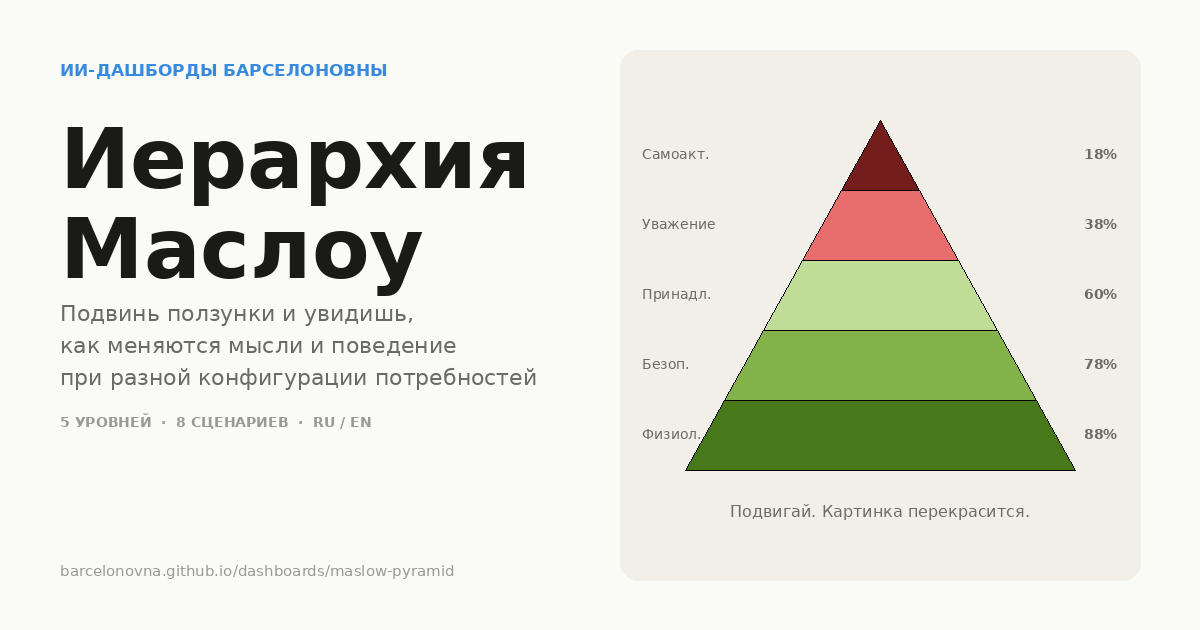
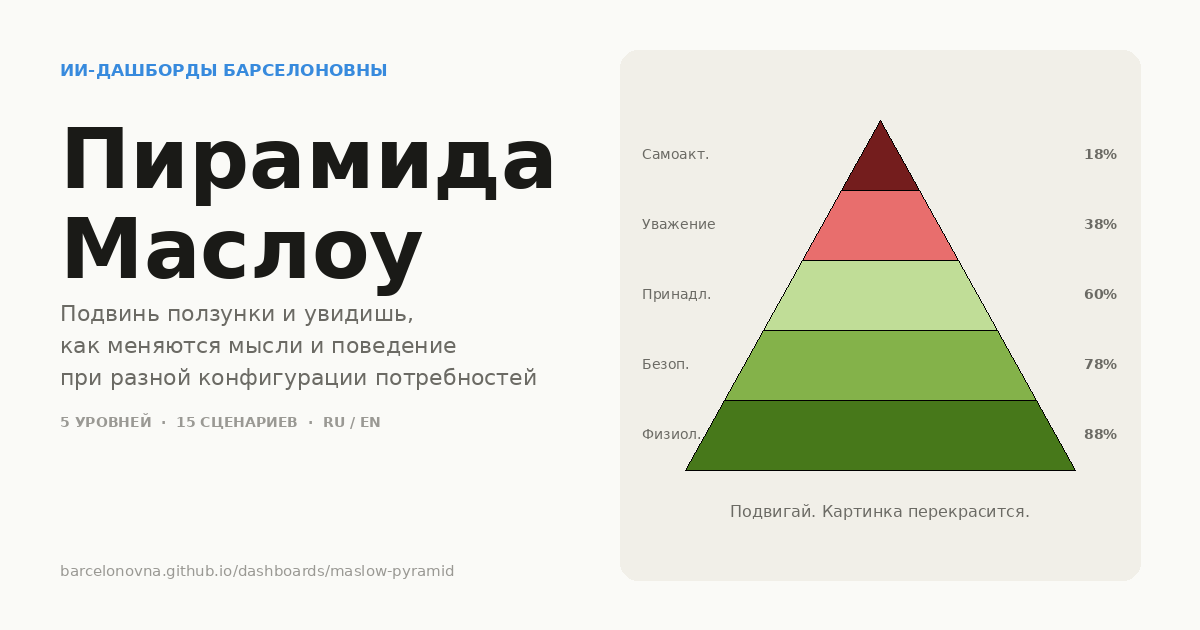
changes+metrika

Changed region(s): [[0.1233, 0.2111, 0.4625, 0.3317], [0.1542, 0.6635, 0.3392, 0.6937], [0.0617, 0.181, 0.0925, 0.3016]]

diff --git a/social-connections/index.html b/social-connections/index.html
@@ -4,13 +4,13 @@
 <meta charset="utf-8">
 <meta name="viewport" content="width=device-width, initial-scale=1">
 <title>Связи продлевают жизнь · ИИ-дашборды Барселоновны</title>
-<meta name="description" content="Качество отношений — один из сильнейших известных факторов здоровья. Данные Гарвардского исследования и мета-анализа.">
+<meta name="description" content="85 лет наблюдений и мета-анализ 3,4 миллиона человек показывают: качество связей с близкими и знакомыми — один из сильнейших факторов здоровья и долголетия. С интерактивным калькулятором собственного круга.">
 
 <!-- Open Graph -->
 <meta property="og:type" content="website">
 <meta property="og:url" content="https://barcelonovna.github.io/dashboards/social-connections/">
 <meta property="og:title" content="Связи продлевают жизнь">
-<meta property="og:description" content="85 лет наблюдений Гарварда. Сильные социальные связи снижают риск ранней смерти на 50%.">
+<meta property="og:description" content="Что 85 лет исследований и мета-анализ 3,4 миллиона человек говорят о роли отношений в здоровье и долголетии. С калькулятором собственного круга.">
 <meta property="og:image" content="https://barcelonovna.github.io/dashboards/social-connections/preview.png">
 <meta property="og:image:width" content="1200">
 <meta property="og:image:height" content="630">
@@ -19,8 +19,9 @@
 <!-- Twitter -->
 <meta name="twitter:card" content="summary_large_image">
 <meta name="twitter:title" content="Связи продлевают жизнь">
-<meta name="twitter:description" content="85 лет наблюдений Гарварда. −50% риска ранней смерти.">
+<meta name="twitter:description" content="85 лет наблюдений и 3,4 миллиона человек о связях, здоровье и долголетии. С калькулятором круга.">
 <meta name="twitter:image" content="https://barcelonovna.github.io/dashboards/social-connections/preview.png">
+
 <style>
 :root {
   --bg: #fafaf7;
@@ -78,7 +79,7 @@ html, body {
   background: var(--bg);
   color: var(--text);
   font-family: -apple-system, BlinkMacSystemFont, "Segoe UI", Roboto, Helvetica, Arial, sans-serif;
-  font-size: 16px;
+  font-size: 15px;
   line-height: 1.55;
   -webkit-font-smoothing: antialiased;
   font-variant-numeric: tabular-nums;
@@ -103,7 +104,7 @@ html, body {
   text-transform: uppercase;
   color: var(--accent);
   text-decoration: none;
-  margin-bottom: 12px;
+  margin-bottom: 8px;
   transition: opacity 0.15s ease;
 }
 .brand:hover { opacity: 0.7; }
@@ -111,7 +112,7 @@ h1 {
   font-size: 28px;
   font-weight: 500;
   letter-spacing: -0.01em;
-  margin: 0 0 8px;
+  margin: 0 0 6px;
   color: var(--text);
 }
 .subtitle {
@@ -120,22 +121,6 @@ h1 {
   line-height: 1.55;
   margin: 0;
   max-width: 640px;
-}
-.inspired {
-  font-size: 13px;
-  color: var(--text-3);
-  line-height: 1.5;
-  margin: 10px 0 0;
-  max-width: 640px;
-}
-.inspired a {
-  color: var(--accent);
-  text-decoration: none;
-  border-bottom: 1px solid var(--accent-bg);
-  transition: border-color 0.15s;
-}
-.inspired a:hover {
-  border-bottom-color: var(--accent);
 }
 .lang-switch {
   display: flex;
@@ -184,19 +169,19 @@ h1 {
   line-height: 1.2;
 }
 .stat-hint {
-  font-size: 11px;
+  font-size: 13px;
   color: var(--text-3);
   margin-top: 2px;
 }
 .section-title {
-  font-size: 16px;
+  font-size: 14px;
   font-weight: 500;
   margin: 0 0 4px;
-  color: var(--text);
+  color: var(--text-2);
 }
 .section-sub {
   font-size: 13px;
-  color: var(--text-2);
+  color: var(--text-3);
   margin: 0 0 16px;
 }
 #bars {
@@ -351,14 +336,14 @@ input[type=range]::-moz-range-thumb {
   margin-bottom: 6px;
 }
 .result-value {
-  font-size: 26px;
+  font-size: 28px;
   font-weight: 500;
   font-variant-numeric: tabular-nums;
   line-height: 1.2;
 }
 .result-value.green { color: var(--green-3); }
 .result-hint {
-  font-size: 11px;
+  font-size: 13px;
   color: var(--text-3);
   margin-top: 4px;
   line-height: 1.4;
@@ -413,20 +398,42 @@ input[type=range]::-moz-range-thumb {
 .embed-mode #bars { margin-bottom: 0; }
 .embed-mode .info-box { margin-bottom: 0; }
 
-@media (max-width: 700px) {
+@media (max-width: 800px) {
+  .calc-grid { grid-template-columns: 1fr; gap: 24px; }
+  .rings-wrap { order: -1; }
+  #rings { max-width: 240px; }
+}
+
+@media (max-width: 600px) {
   .container { padding: 20px 14px 40px; }
   h1 { font-size: 22px; }
   .header { flex-direction: column; gap: 14px; }
   .lang-switch { align-self: flex-start; }
   .stats { grid-template-columns: 1fr 1fr; }
   .stats .stat:nth-child(3) { grid-column: span 2; }
-  .bar-row { grid-template-columns: 140px 1fr 48px; gap: 8px; }
+  .stat-value { font-size: 22px; }
+  .bar-row { grid-template-columns: 130px 1fr 46px; gap: 8px; }
   .bar-label { font-size: 12px; }
-  .calc-grid { grid-template-columns: 1fr; gap: 24px; }
   .results { grid-template-columns: 1fr; }
+  .result-value { font-size: 22px; }
   .calc-wrap { padding: 18px 16px; }
 }
 </style>
+
+<!-- Yandex.Metrika counter -->
+<script type="text/javascript">
+    (function(m,e,t,r,i,k,a){
+        m[i]=m[i]||function(){(m[i].a=m[i].a||[]).push(arguments)};
+        m[i].l=1*new Date();
+        for (var j = 0; j < document.scripts.length; j++) {if (document.scripts[j].src === r) { return; }}
+        k=e.createElement(t),a=e.getElementsByTagName(t)[0],k.async=1,k.src=r,a.parentNode.insertBefore(k,a)
+    })(window, document,'script','https://mc.yandex.ru/metrika/tag.js?id=109215938', 'ym');
+
+    ym(109215938, 'init', {ssr:true, webvisor:true, clickmap:true, ecommerce:"dataLayer", referrer: document.referrer, url: location.href, accurateTrackBounce:true, trackLinks:true});
+</script>
+<noscript><div><img src="https://mc.yandex.ru/watch/109215938" style="position:absolute; left:-9999px;" alt="" /></div></noscript>
+<!-- /Yandex.Metrika counter -->
+
 </head>
 <body>
 <div class="container">
@@ -436,7 +443,6 @@ input[type=range]::-moz-range-thumb {
     <a href="../" class="brand" target="_top" data-i18n="brand">ИИ-дашборды Барселоновны</a>
     <h1 data-i18n="title">Связи продлевают жизнь</h1>
     <p class="subtitle" data-i18n="subtitle">85 лет наблюдений и мета-анализ 3,4 миллиона человек говорят одно: качество отношений с близкими и знакомыми — один из сильнейших известных факторов здоровья и продолжительности жизни. Сильнее холестерина, сопоставимо с курением.</p>
-    <p class="inspired" data-i18n="inspired">Вдохновлено телеграм-каналом <a href="https://t.me/mig41" target="_blank" rel="noopener">МИГ России</a>, продвигающим идею укрепления горизонтальных связей.</p>
   </div>
   <div class="lang-switch" role="group">
     <button class="lang-btn active" data-lang="ru">RU</button>
@@ -564,7 +570,6 @@ const I18N = {
     brand: "ИИ-дашборды Барселоновны",
     title: "Связи продлевают жизнь",
     subtitle: "85 лет наблюдений и мета-анализ 3,4 миллиона человек говорят одно: качество отношений с близкими и знакомыми — один из сильнейших известных факторов здоровья и продолжительности жизни. Сильнее холестерина, сопоставимо с курением.",
-    inspired: 'Вдохновлено телеграм-каналом <a href="https://t.me/mig41" target="_blank" rel="noopener">МИГ России</a>, продвигающим идею укрепления горизонтальных связей.',
     stat1Label: "Гарвардское исследование",
     stat1Value: "85 лет",
     stat1Hint: "с 1938 года, 1300 участников",
@@ -627,7 +632,6 @@ const I18N = {
     brand: "Barcelonovna AI Dashboards",
     title: "Connections extend life",
     subtitle: "85 years of observation and a meta-analysis of 3.4 million people point to one thing: the quality of your relationships with close people and acquaintances is one of the strongest known predictors of health and longevity. Stronger than cholesterol. Comparable to smoking.",
-    inspired: 'Inspired by the Telegram channel <a href="https://t.me/mig41" target="_blank" rel="noopener">MIG Russia</a>, advocating stronger horizontal social ties.',
     stat1Label: "Harvard Study of Adult Development",
     stat1Value: "85 years",
     stat1Hint: "since 1938, 1,300 participants",
@@ -858,13 +862,17 @@ function applyLang() {
   document.querySelectorAll("[data-i18n]").forEach(el => {
     const key = el.getAttribute("data-i18n");
     if (t[key] !== undefined) {
-      if (key === "infoBody" || key === "inspired") {
+      if (key === "infoBody") {
         el.innerHTML = t[key];
       } else {
         el.textContent = t[key];
       }
     }
   });
+
+  // Brand href keeps the language across navigation
+  const brand = document.querySelector(".brand");
+  if (brand) brand.href = "../?lang=" + lang;
 
   document.querySelectorAll(".lang-btn").forEach(btn => {
     btn.classList.toggle("active", btn.getAttribute("data-lang") === lang);

diff --git a/maslow-pyramid/index.html b/maslow-pyramid/index.html
@@ -3,12 +3,12 @@
 <head>
 <meta charset="UTF-8">
 <meta name="viewport" content="width=device-width, initial-scale=1.0">
-<title>Иерархия Маслоу · Интерактивная пирамида</title>
+<title>Пирамида Маслоу. Интерактивный дашборд</title>
 <meta name="description" content="Подвигай ползунки и посмотри, какие мысли и поведение возникают при разной конфигурации потребностей по Маслоу.">
 
 <meta property="og:type" content="website">
 <meta property="og:url" content="https://barcelonovna.github.io/dashboards/maslow-pyramid/">
-<meta property="og:title" content="Иерархия Маслоу. Интерактивная пирамида">
+<meta property="og:title" content="Пирамида Маслоу. Интерактивный дашборд">
 <meta property="og:description" content="Пять уровней потребностей, ползунки и сценарии. Как меняются мысли и поведение при разной конфигурации.">
 <meta property="og:image" content="https://barcelonovna.github.io/dashboards/maslow-pyramid/preview.png">
 <meta property="og:image:width" content="1200">
@@ -17,7 +17,7 @@
 <meta property="og:locale:alternate" content="en_US">
 
 <meta name="twitter:card" content="summary_large_image">
-<meta name="twitter:title" content="Иерархия Маслоу. Интерактивная пирамида">
+<meta name="twitter:title" content="Пирамида Маслоу. Интерактивный дашборд">
 <meta name="twitter:description" content="Пять уровней потребностей, ползунки и сценарии. Как меняются мысли и поведение.">
 <meta name="twitter:image" content="https://barcelonovna.github.io/dashboards/maslow-pyramid/preview.png">
 
@@ -145,7 +145,7 @@ h1 {
   margin-bottom: 4px;
 }
 .stat-value {
-  font-size: 22px;
+  font-size: 28px;
   font-weight: 500;
   color: var(--text);
   font-variant-numeric: tabular-nums;
@@ -435,16 +435,30 @@ input[type=range]::-moz-range-thumb {
 .embed-mode .container { padding: 24px; }
 .embed-mode .header { margin-bottom: 16px; }
 </style>
+
+<!-- Yandex.Metrika counter -->
+<script type="text/javascript">
+    (function(m,e,t,r,i,k,a){
+        m[i]=m[i]||function(){(m[i].a=m[i].a||[]).push(arguments)};
+        m[i].l=1*new Date();
+        for (var j = 0; j < document.scripts.length; j++) {if (document.scripts[j].src === r) { return; }}
+        k=e.createElement(t),a=e.getElementsByTagName(t)[0],k.async=1,k.src=r,a.parentNode.insertBefore(k,a)
+    })(window, document,'script','https://mc.yandex.ru/metrika/tag.js?id=109215938', 'ym');
+
+    ym(109215938, 'init', {ssr:true, webvisor:true, clickmap:true, ecommerce:"dataLayer", referrer: document.referrer, url: location.href, accurateTrackBounce:true, trackLinks:true});
+</script>
+<noscript><div><img src="https://mc.yandex.ru/watch/109215938" style="position:absolute; left:-9999px;" alt="" /></div></noscript>
+<!-- /Yandex.Metrika counter -->
 </head>
 <body>
 <div class="container">
   <header class="header">
     <div class="header-text">
       <a href="../" class="brand" id="brand" target="_top">ИИ-дашборды Барселоновны</a>
-      <h1 id="title">Иерархия Маслоу</h1>
+      <h1 id="title">Пирамида Маслоу</h1>
       <p class="subtitle" id="subtitle">Из чего собрано твоё «прямо сейчас». Подвигай ползунки или выбери сценарий.</p>
       <p class="inspired" id="inspired">
-        Основано на иерархии потребностей <a href="https://psychclassics.yorku.ca/Maslow/motivation.htm" target="_blank" rel="noopener">Абрахама Маслоу</a>, 1943. Это интерпретация модели, не диагностика.
+        Основано на пирамиде потребностей <a href="https://psychclassics.yorku.ca/Maslow/motivation.htm" target="_blank" rel="noopener">Абрахама Маслоу</a>, 1943. Это интерпретация модели, не диагностика.
       </p>
     </div>
     <div class="lang-switch">
@@ -514,9 +528,9 @@ const I18N = {
   ru: {
     htmlLang: "ru",
     brand: "ИИ-дашборды Барселоновны",
-    title: "Иерархия Маслоу",
+    title: "Пирамида Маслоу",
     subtitle: "Из чего собрано твоё «прямо сейчас». Подвигай ползунки или выбери сценарий.",
-    inspired: 'Основано на иерархии потребностей <a href="https://psychclassics.yorku.ca/Maslow/motivation.htm" target="_blank" rel="noopener">Абрахама Маслоу</a>, 1943. Это интерпретация модели, не диагностика.',
+    inspired: 'Основано на пирамиде потребностей <a href="https://psychclassics.yorku.ca/Maslow/motivation.htm" target="_blank" rel="noopener">Абрахама Маслоу</a>, 1943. Это интерпретация модели, не диагностика.',
     presetLabel: "Сценарии",
     statHarmonyLabel: "Гармония",
     statDomLabel: "Куда уходит фокус",
@@ -528,16 +542,16 @@ const I18N = {
     harmonyTags: ["Большой дефицит", "Заметный перекос", "В целом сносно", "Гармонично"],
     domFlowLabel: "Энергия роста",
     footer: 'Источник: A. H. Maslow, <a href="https://psychclassics.yorku.ca/Maslow/motivation.htm" target="_blank" rel="noopener">A Theory of Human Motivation</a>, Psychological Review, 1943. Тексты мыслей и поведения это авторская интерпретация для иллюстрации, конкретные проявления зависят от личной истории, контекста и культуры.',
-    titleHtml: "Иерархия Маслоу · Интерактивная пирамида",
+    titleHtml: "Пирамида Маслоу. Интерактивный дашборд",
     methodologyTitle: "Как считаются метрики",
     methodologyContent: '<p><strong>Доминирующая потребность.</strong> Если у любого уровня заполненность ниже 60%, доминирующая выбирается по формуле <code>значение + позиция уровня × 5</code> (физиология = 0, самоактуализация = 4) — берётся уровень с минимальным результатом. Это значит, что при близких значениях приоритет у нижних уровней (по Маслоу нижние тянут внимание сильнее). Если все уровни заполнены на 60% и выше, доминирующая = самый наполненный уровень, твоя точка опоры.</p><p><strong>Гармония</strong> = равномерность распределения × средняя наполненность ÷ 100. Поэтому при низких ровных значениях (например, депрессия) гармония низкая: формально ровно, фактически дефицит. Высокая гармония требует одновременно и ровного распределения, и достаточной общей наполненности.</p>'
   },
   en: {
     htmlLang: "en",
     brand: "Barcelonovna AI Dashboards",
-    title: "Maslow's Hierarchy",
+    title: "Maslow's Pyramid",
     subtitle: "What your 'right now' is made of. Move the sliders or pick a scenario.",
-    inspired: 'Based on the hierarchy of needs by <a href="https://psychclassics.yorku.ca/Maslow/motivation.htm" target="_blank" rel="noopener">Abraham Maslow</a>, 1943. An interpretation of the model, not a diagnosis.',
+    inspired: 'Based on the pyramid of needs by <a href="https://psychclassics.yorku.ca/Maslow/motivation.htm" target="_blank" rel="noopener">Abraham Maslow</a>, 1943. An interpretation of the model, not a diagnosis.',
     presetLabel: "Scenarios",
     statHarmonyLabel: "Harmony",
     statDomLabel: "Where focus goes",
@@ -549,7 +563,7 @@ const I18N = {
     harmonyTags: ["Major shortfall", "Visible imbalance", "Mostly okay", "In harmony"],
     domFlowLabel: "Growth energy",
     footer: 'Source: A. H. Maslow, <a href="https://psychclassics.yorku.ca/Maslow/motivation.htm" target="_blank" rel="noopener">A Theory of Human Motivation</a>, Psychological Review, 1943. Thought and behavior texts are an authorial interpretation; actual experience depends on personal history, context and culture.',
-    titleHtml: "Maslow's Hierarchy · Interactive Pyramid",
+    titleHtml: "Maslow's Pyramid · Interactive Dashboard",
     methodologyTitle: "How the metrics are calculated",
     methodologyContent: '<p><strong>Dominant need.</strong> If any level is below 60%, the dominant one is picked by the formula <code>value + level position × 5</code> (physiological = 0, self-actualization = 4). The level with the minimum score wins. So when values are close, lower levels get priority — per Maslow, lower needs pull attention harder. If every level is at 60% or above, the dominant one is simply the most filled level, your point of strength.</p><p><strong>Harmony</strong> = evenness of distribution × average fill ÷ 100. So when values are low but even (e.g. depression), harmony stays low: formally balanced, factually deficient. High harmony requires both even distribution and sufficient overall fill.</p>'
   }
@@ -941,7 +955,7 @@ const PRESETS = [
     }
   },
   {
-    name: { ru: "Дональд Трамп", en: "Donald Trump" },
+    name: { ru: "Селебрити в политике", en: "Celebrity in politics" },
     values: [80, 55, 75, 95, 70],
     thought: {
       ru: "Огромный успех. Такого никогда не было. Многие говорят, что я лучший. Фейковые СМИ всё врут. Они меня преследуют, потому что боятся. Я выиграю. Я всегда выигрываю. Поверьте мне.",

diff --git a/index.html b/index.html
@@ -152,6 +152,20 @@
     .grid { grid-template-columns: 1fr; gap: 18px; }
   }
 </style>
+
+<!-- Yandex.Metrika counter -->
+<script type="text/javascript">
+    (function(m,e,t,r,i,k,a){
+        m[i]=m[i]||function(){(m[i].a=m[i].a||[]).push(arguments)};
+        m[i].l=1*new Date();
+        for (var j = 0; j < document.scripts.length; j++) {if (document.scripts[j].src === r) { return; }}
+        k=e.createElement(t),a=e.getElementsByTagName(t)[0],k.async=1,k.src=r,a.parentNode.insertBefore(k,a)
+    })(window, document,'script','https://mc.yandex.ru/metrika/tag.js?id=109215938', 'ym');
+
+    ym(109215938, 'init', {ssr:true, webvisor:true, clickmap:true, ecommerce:"dataLayer", referrer: document.referrer, url: location.href, accurateTrackBounce:true, trackLinks:true});
+</script>
+<noscript><div><img src="https://mc.yandex.ru/watch/109215938" style="position:absolute; left:-9999px;" alt="" /></div></noscript>
+<!-- /Yandex.Metrika counter -->
 </head>
 <body>
 <div class="container">

diff --git a/population-map/index.html b/population-map/index.html
@@ -123,6 +123,20 @@
   .embed-mode .controls { display: none; }
   .embed-mode .ticks { display: none; }
 </style>
+
+<!-- Yandex.Metrika counter -->
+<script type="text/javascript">
+    (function(m,e,t,r,i,k,a){
+        m[i]=m[i]||function(){(m[i].a=m[i].a||[]).push(arguments)};
+        m[i].l=1*new Date();
+        for (var j = 0; j < document.scripts.length; j++) {if (document.scripts[j].src === r) { return; }}
+        k=e.createElement(t),a=e.getElementsByTagName(t)[0],k.async=1,k.src=r,a.parentNode.insertBefore(k,a)
+    })(window, document,'script','https://mc.yandex.ru/metrika/tag.js?id=109215938', 'ym');
+
+    ym(109215938, 'init', {ssr:true, webvisor:true, clickmap:true, ecommerce:"dataLayer", referrer: document.referrer, url: location.href, accurateTrackBounce:true, trackLinks:true});
+</script>
+<noscript><div><img src="https://mc.yandex.ru/watch/109215938" style="position:absolute; left:-9999px;" alt="" /></div></noscript>
+<!-- /Yandex.Metrika counter -->
 </head>
 <body>
 <div class="container">